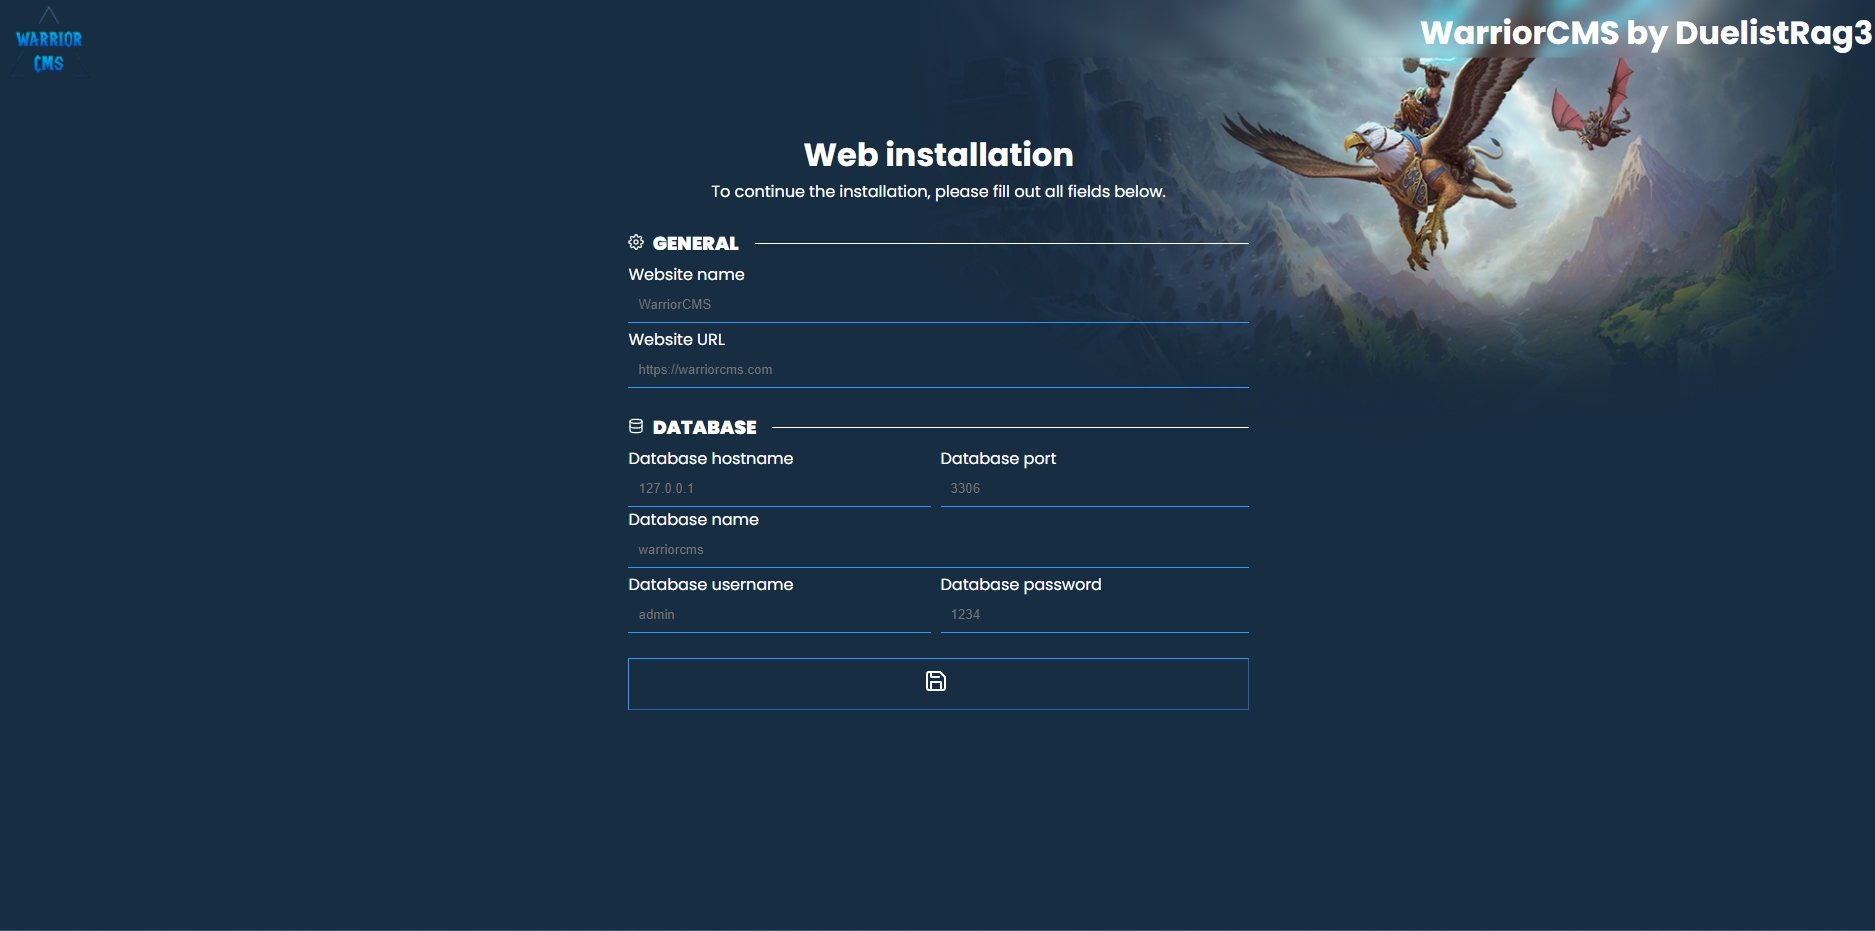
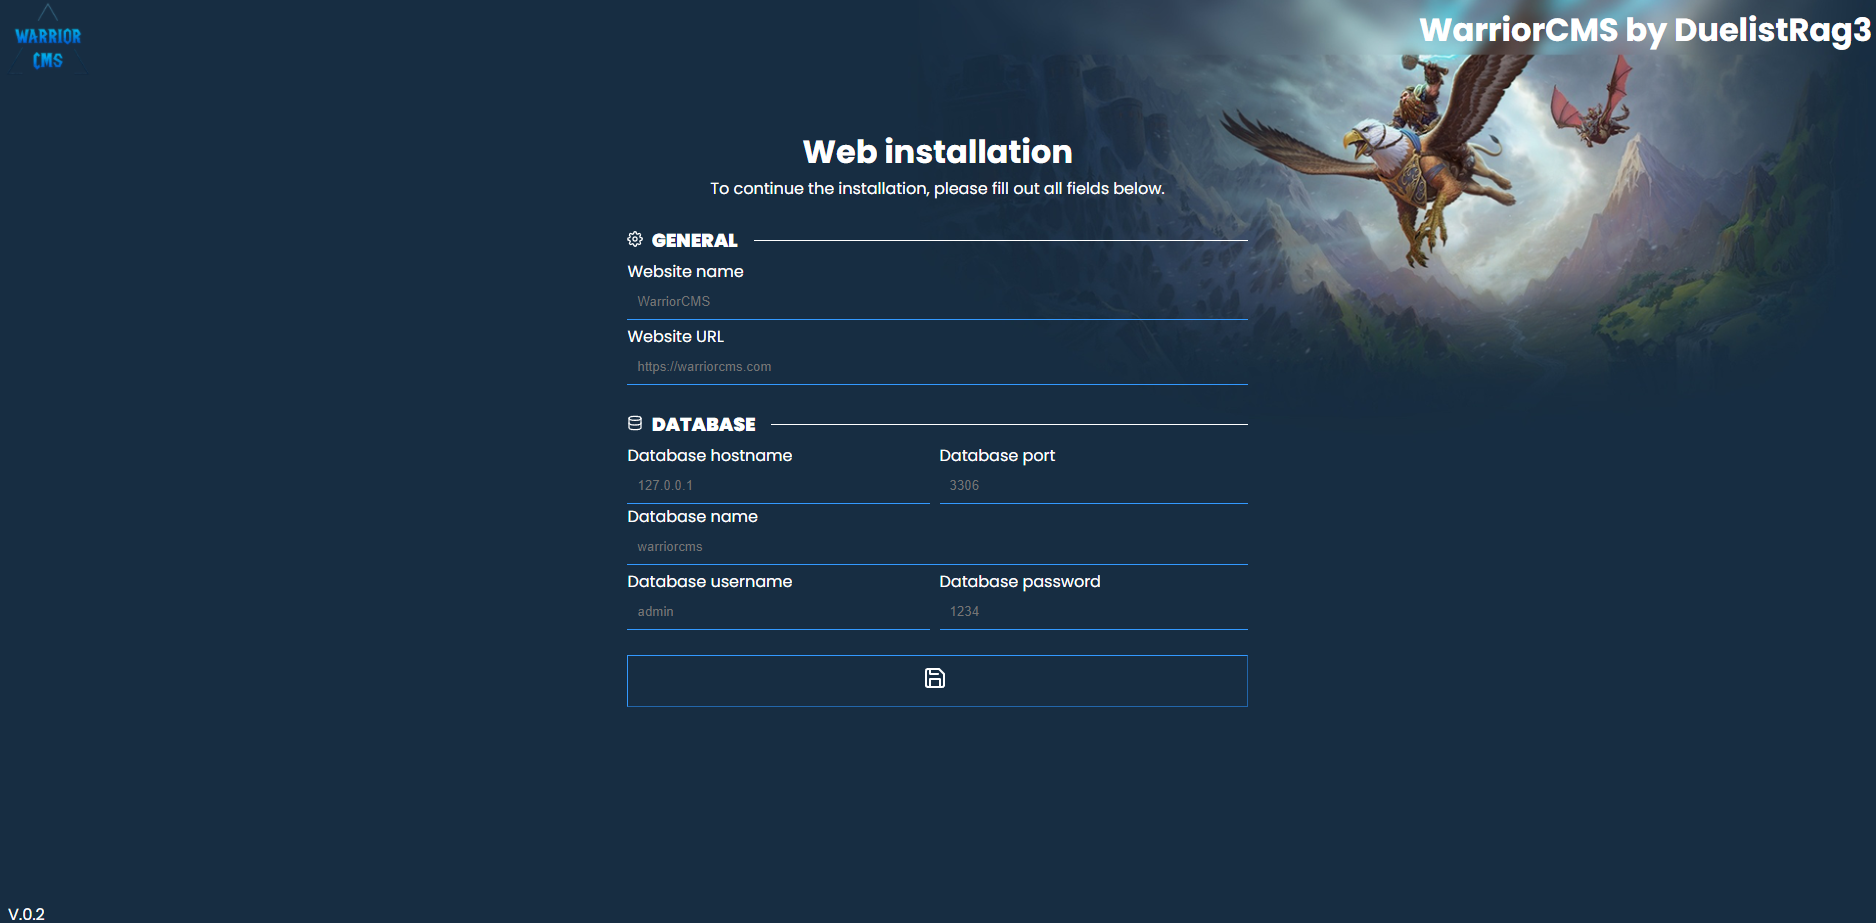
Update Installer Module

diff --git a/public/Themes/installer/views/modules/installer/components/input.blade.php b/public/Themes/installer/views/modules/installer/components/input.blade.php
@@ -1,0 +1,3 @@
+@props(['disabled' => false])
+
+<input {{ $disabled ? 'disabled' : '' }} {!! $attributes->merge(['class' => '']) !!}>

diff --git a/public/Themes/installer/views/modules/installer/components/label.blade.php b/public/Themes/installer/views/modules/installer/components/label.blade.php
@@ -1,0 +1,5 @@
+@props(['value'])
+
+<label {{ $attributes->merge(['class' => 'text-white']) }}>
+    {{ $value ?? $slot }}
+</label>

diff --git a/public/Themes/installer/views/modules/installer/components/button.blade.php b/public/Themes/installer/views/modules/installer/components/button.blade.php
@@ -1,0 +1,3 @@
+<button {{ $attributes->merge(['type' => 'submit', 'class' => '']) }}>
+    {{ $slot }}
+</button>

diff --git a/public/Themes/installer/views/modules/installer/components/app_logo.blade.php b/public/Themes/installer/views/modules/installer/components/app_logo.blade.php
@@ -1,0 +1,3 @@
+<div>
+    <img src="/img/logo.png" width="100px" alt="Logo">
+</div>
